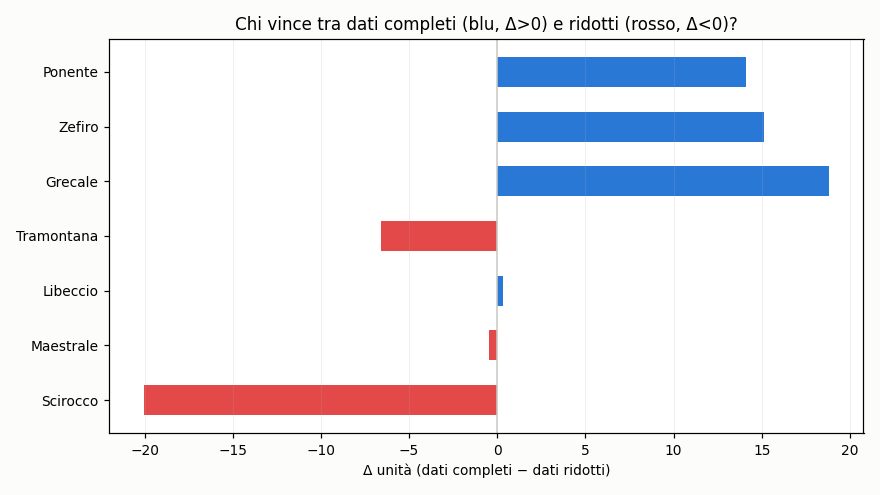
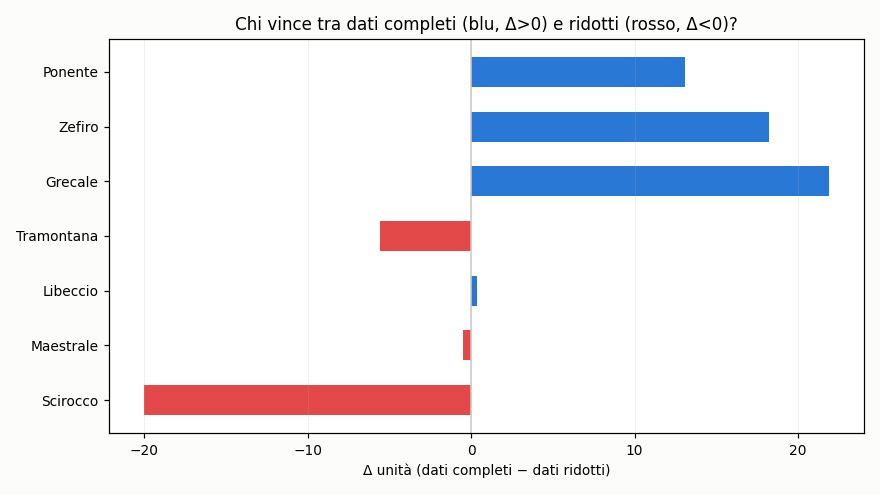
aggiornamento 2026-07-25 13:31 UTC

diff --git a/README.md b/README.md
@@ -37,9 +37,9 @@ scala in unità). Non indichiamo quale.
 
 ## Grafici
 
-![Coppie: dati completi vs ridotti](https://raw.githubusercontent.com/Kitem19/ippica-track-record/main/charts/equity_pairs.png?v=8fba55e0)
+![Coppie: dati completi vs ridotti](https://raw.githubusercontent.com/Kitem19/ippica-track-record/main/charts/equity_pairs.png?v=d6a4a723)
 
-![Delta per coppia](https://raw.githubusercontent.com/Kitem19/ippica-track-record/main/charts/coppie_delta.png?v=caf1e14f)
+![Delta per coppia](https://raw.githubusercontent.com/Kitem19/ippica-track-record/main/charts/coppie_delta.png?v=4eb4780c)
 
 ### Come leggere i grafici
 
@@ -59,31 +59,31 @@ _Poche giornate: numeri ancora rumorosi, si conclude a fine fase (31/7)._
 - **Scirocco**: dati ridotti avanti di 20,1u — qui gli extra non aiutano
 - **Maestrale**: in sostanziale pareggio — troppo presto per dire
 - **Libeccio**: in sostanziale pareggio — troppo presto per dire
-- **Tramontana**: dati ridotti avanti di 6,6u — qui gli extra non aiutano
-- **Grecale**: dati completi avanti di 18,8u
-- **Zefiro**: dati completi avanti di 15,1u
-- **Ponente**: dati completi avanti di 14,1u
+- **Tramontana**: dati ridotti avanti di 5,6u — qui gli extra non aiutano
+- **Grecale**: dati completi avanti di 21,9u
+- **Zefiro**: dati completi avanti di 18,2u
+- **Ponente**: dati completi avanti di 13,1u
 
 ## Classifica (conteggio ufficiale)
 
 | Sistema | Cassa (u) | P/L (u) | Selezioni | Escluse | Stato |
 |---|---|---|---|---|---|
+| Grecale | 21,7 | +1,7 | 277 | 4 | 🟢 |
 | Scirocco-B | 20,0 | -0,0 | 207 | 0 | 🟢 |
-| Grecale | 18,6 | -1,4 | 276 | 4 | 🟢 |
-| Zefiro | 14,7 | -5,3 | 243 | 5 | 🟢 |
-| Ponente | 13,1 | -6,9 | 190 | 28 | 🟢 |
-| Tramontana-B | 6,3 | -13,7 | 308 | 0 | 🟢 |
-| Maestrale-B | 0,0 | -20,0 | 100 | 207 | 🛑 |
+| Zefiro | 17,8 | -2,2 | 244 | 5 | 🟢 |
+| Ponente | 12,1 | -7,9 | 191 | 28 | 🟢 |
+| Tramontana-B | 5,3 | -14,7 | 309 | 0 | 🟢 |
+| Maestrale-B | 0,0 | -20,0 | 100 | 208 | 🛑 |
 | Scirocco | 0,0 | -20,1 | 80 | 217 | 🛑 |
-| Grecale-B | 0,0 | -20,2 | 137 | 148 | 🛑 |
-| Tramontana | 0,0 | -20,3 | 45 | 281 | 🛑 |
-| Zefiro-B | 0,0 | -20,5 | 143 | 53 | 🛑 |
-| Maestrale | 0,0 | -20,5 | 104 | 228 | 🛑 |
-| Libeccio | 0,0 | -20,6 | 181 | 137 | 🛑 |
-| Libeccio-B | 0,0 | -20,9 | 119 | 153 | 🛑 |
-| Ponente-B | 0,0 | -21,0 | 63 | 75 | 🛑 |
+| Grecale-B | 0,0 | -20,2 | 137 | 149 | 🛑 |
+| Tramontana | 0,0 | -20,3 | 45 | 282 | 🛑 |
+| Zefiro-B | 0,0 | -20,5 | 143 | 54 | 🛑 |
+| Maestrale | 0,0 | -20,5 | 104 | 229 | 🛑 |
+| Libeccio | 0,0 | -20,6 | 181 | 138 | 🛑 |
+| Libeccio-B | 0,0 | -20,9 | 119 | 154 | 🛑 |
+| Ponente-B | 0,0 | -21,0 | 63 | 76 | 🛑 |
 
-_Aggiornato: 25/07 15:26_
+_Aggiornato: 25/07 15:31_
 ---
 *Nessuna delle informazioni qui pubblicate costituisce consiglio di gioco.
 Il gioco può causare dipendenza — 18+.*
